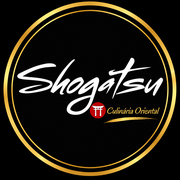
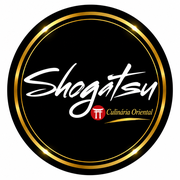
Add files via upload

diff --git a/public/painel.html b/public/painel.html
@@ -10,6 +10,7 @@
 <meta content="Painel Shogatsu" name="apple-mobile-web-app-title"/>
 <link href="manifest-painel.json" rel="manifest"/>
 <link href="apple-touch-icon.png" rel="apple-touch-icon"/>
+<link rel="icon" type="image/png" href="/favicon.png">
 <link href="favicon-32.png" rel="icon" sizes="32x32" type="image/png"/>
 <link href="favicon-16.png" rel="icon" sizes="16x16" type="image/png"/>
 <title>Shogatsu — Painel do Restaurante</title>
@@ -1911,7 +1912,7 @@ body{font-size:13px;letter-spacing:-.01em;}
 <div class="field"><label>Fecha</label><input id="sched-close" type="time" value="23:00"/></div>
 </div>
 <div class="field"><label>Avaliação</label><input id="cfg-reviewPrompt" placeholder="O que você achou do seu pedido?"/></div>
-<div class="field"><label style="display:flex;align-items:center;justify-content:space-between;"><span>Frases prontas</span><button class="btn secondary sm" onclick="addReviewPhraseField()" type="button">+ Frase</button></label><div id="review-phrases-list" style="display:flex;flex-direction:column;gap:6px;margin-top:8px;"></div></div>
+<div class="field v122-review-phrases-source" style="display:none"><label>Frases prontas</label><div id="review-phrases-list" style="display:flex;flex-direction:column;gap:6px;margin-top:8px;"></div></div>
 </div>
 <div class="settings-card">
 <div class="settings-card-title">🎨 Aparência do Cardápio</div>
@@ -2245,6 +2246,7 @@ body{font-size:13px;letter-spacing:-.01em;}
             Aparecem no site pra todo mundo ver, exceto as que você ocultar. Ocultar não apaga —
             você pode reexibir quando quiser.
           </div>
+<div class="v122-review-phrases-card"><div class="v122-review-phrases-head"><div><strong>💬 Frases prontas</strong><span>Use respostas rápidas ao moderar ou responder avaliações.</span></div><button class="btn secondary sm" type="button" onclick="addReviewPhraseField();renderV122ReviewPhrases();">+ Frase</button></div><div id="v122-review-phrases-list"></div></div>
 <div id="admin-reviews-list" style="display:flex;flex-direction:column;gap:10px;"></div>
 </div>
 </div>
@@ -2295,7 +2297,9 @@ body{font-size:13px;letter-spacing:-.01em;}
 <div class="field"><label>Preço *</label><input id="item-price" oninput="updateItemLivePreview()" placeholder="0,00" step="0.01" type="number"/></div>
 </div>
 <div class="field"><label>Descrição</label><textarea id="item-desc" oninput="updateItemLivePreview()" placeholder="Explique o que vem no prato, ingredientes e diferenciais..."></textarea></div>
-<div class="field-row"><div class="field"><label>Porção</label><input id="item-qty" placeholder="Ex.: 8 peças"/></div></div>
+<div class="field-row"><div class="field"><label>Porção / tamanho</label><input id="item-qty" list="item-qty-presets" placeholder="Ex.: 8 peças ou 500 ml"/></div></div>
+<datalist id="item-qty-presets"><option value="4 peças"></option><option value="6 peças"></option><option value="8 peças"></option><option value="10 peças"></option><option value="12 peças"></option><option value="16 peças"></option><option value="20 peças"></option><option value="250 ml"></option><option value="300 ml"></option><option value="350 ml"></option><option value="400 ml"></option><option value="500 ml"></option><option value="600 ml"></option><option value="700 ml"></option><option value="1 L"></option></datalist>
+<div class="v122-portion-chips" id="item-qty-chips"><button type="button" onclick="setItemQtyPreset('4 peças')">4</button><button type="button" onclick="setItemQtyPreset('6 peças')">6</button><button type="button" onclick="setItemQtyPreset('8 peças')">8</button><button type="button" onclick="setItemQtyPreset('10 peças')">10</button><button type="button" onclick="setItemQtyPreset('12 peças')">12</button><button type="button" onclick="setItemQtyPreset('250 ml')">250 ml</button><button type="button" onclick="setItemQtyPreset('350 ml')">350 ml</button><button type="button" onclick="setItemQtyPreset('500 ml')">500 ml</button><button type="button" onclick="setItemQtyPreset('1 L')">1 L</button></div>
 </div>
 <div class="item-editor-card item-editor-section v120-local-badge-card">
 <div class="item-editor-section-title"><span>🏷 Destaque no cardápio</span><span class="v120-local-badge-label">Rápido</span></div>
@@ -2307,7 +2311,13 @@ body{font-size:13px;letter-spacing:-.01em;}
 <button type="button" class="v120-badge-preset" data-badge="♥ Recomendado" onclick="setLocalBadgePreset('♥ Recomendado')">♥ Recomendado</button>
 <button type="button" class="v120-badge-preset is-off" data-badge="" onclick="setLocalBadgePreset('')">Sem selo</button>
 </div>
-<div class="field v120-badge-custom"><label>Personalizar selo <span>opcional</span></label><input id="item-badge" maxlength="28" placeholder="Ex.: 🍣 Chef recomenda" oninput="setLocalBadgeCustom(this.value)"/></div>
+<div class="field v120-badge-custom"><label>Texto do selo <span>opcional</span></label><input id="item-badge" maxlength="28" placeholder="Ex.: Chef recomenda" oninput="setLocalBadgeCustom(this.value)"/></div>
+<div class="v122-badge-tools">
+  <div class="field"><label>Ícone</label><select id="item-badge-icon"><option value="🔥">🔥 Fogo</option><option value="⭐">⭐ Estrela</option><option value="💎">💎 Diamante</option><option value="♥">♥ Coração</option><option value="🍣">🍣 Sushi</option><option value="✨">✨ Brilho</option><option value="🏆">🏆 Troféu</option><option value="">Sem ícone</option></select></div>
+  <div class="field"><label>Tamanho</label><select id="item-badge-size"><option value="11">Compacto</option><option value="13">Padrão</option><option value="15">Destaque</option><option value="17">Premium</option></select></div>
+  <div class="field"><label>Cor</label><select id="item-badge-color"><option value="#C62828">🔴 Shogatsu</option><option value="#9A7B2F">🟡 Dourado</option><option value="#222222">⚫ Grafite</option><option value="#2E7D32">🟢 Verde</option></select></div>
+  <div class="field"><label>Texto</label><select id="item-badge-text-color"><option value="#FFFFFF">⚪ Branco</option><option value="#171717">⚫ Preto</option><option value="#FFF3CD">🟡 Creme</option></select></div>
+</div>
 <div style="display:none"><input id="item-badgemode-global" name="item-badgemode" type="radio" value="global"/><input id="item-badgemode-manual" name="item-badgemode" type="radio" value="manual"/><input id="item-badgemode-off" name="item-badgemode" type="radio" value="off"/></div>
 </div>
 <div class="item-editor-card">
@@ -7342,6 +7352,10 @@ function openAddItem(){
   ['item-name','item-desc','item-qty','item-badge'].forEach(id=>document.getElementById(id).value='');
   document.getElementById('item-price').value='';
   document.getElementById('item-badgemode-global').checked=true;
+  if(document.getElementById('item-badge-icon'))document.getElementById('item-badge-icon').value='🔥';
+  if(document.getElementById('item-badge-size'))document.getElementById('item-badge-size').value='13';
+  if(document.getElementById('item-badge-color'))document.getElementById('item-badge-color').value='#C62828';
+  if(document.getElementById('item-badge-text-color'))document.getElementById('item-badge-text-color').value='#FFFFFF';
   resetItemPhotoPreview('', {x:50,y:50});
   editingVariants=[];
   renderVariantGroups();
@@ -7358,6 +7372,10 @@ function openEditItem(si,ii){
   document.getElementById('item-price').value=item.price;
   document.getElementById('item-qty').value=item.qty||'';
   document.getElementById('item-badge').value=item.badge||'';
+  if(document.getElementById('item-badge-icon'))document.getElementById('item-badge-icon').value=item.badgeIcon||'🔥';
+  if(document.getElementById('item-badge-size'))document.getElementById('item-badge-size').value=String(item.badgeSize||13);
+  if(document.getElementById('item-badge-color'))document.getElementById('item-badge-color').value=item.badgeColor||'#C62828';
+  if(document.getElementById('item-badge-text-color'))document.getElementById('item-badge-text-color').value=item.badgeTextColor||'#FFFFFF';
   document.getElementById('item-badgemode-'+(item.badgeMode||'global')).checked=true;
   resetItemPhotoPreview(item.image||'', item.imagePos||{x:50,y:50});
   editingVariants=JSON.parse(JSON.stringify(item.variants||[]));
@@ -7456,6 +7474,10 @@ async function saveItem(){
     price:parseFloat(document.getElementById('item-price').value)||0,
     qty:document.getElementById('item-qty').value.trim(),
     badge:document.getElementById('item-badge').value.trim(),
+    badgeIcon:document.getElementById('item-badge-icon')?.value||'🔥',
+    badgeSize:parseInt(document.getElementById('item-badge-size')?.value)||13,
+    badgeColor:document.getElementById('item-badge-color')?.value||'#C62828',
+    badgeTextColor:document.getElementById('item-badge-text-color')?.value||'#FFFFFF',
     badgeMode:(document.querySelector('input[name="item-badgemode"]:checked')||{}).value||'global',
     image:document.getElementById('item-image').value.trim(),
     imagePos:{x:posX,y:posY},
@@ -10423,5 +10445,44 @@ if(token){
 })();
 </script>
 
+
+<style id="shog-v122-final-mobile">
+/* v122 FINAL — UX mobile-first, impressão resiliente, badges locais e comunicação unificada. */
+.v122-badge-tools{display:grid;grid-template-columns:repeat(4,minmax(0,1fr));gap:8px;margin-top:8px}
+.v122-badge-tools .field label{font-size:9px}.v122-badge-tools select{font-size:12px;padding:8px}
+.v122-portion-chips{display:flex;gap:5px;flex-wrap:wrap;margin-top:6px}.v122-portion-chips button{border:1px solid var(--border2);background:var(--bg);color:var(--muted);border-radius:999px;padding:5px 9px;font-size:10px;cursor:pointer}.v122-portion-chips button:hover{border-color:var(--red);color:var(--red-lt)}
+.v122-review-phrases-card{border:1px solid var(--border);background:var(--card);border-radius:12px;padding:12px;margin:0 0 10px}.v122-review-phrases-head{display:flex;justify-content:space-between;gap:10px;align-items:center}.v122-review-phrases-head strong{display:block;font-size:13px}.v122-review-phrases-head span{display:block;font-size:10px;color:var(--muted);margin-top:3px}.v122-review-phrase-row{display:flex;gap:6px;margin-top:7px}.v122-review-phrase-row input{flex:1}.v122-review-phrase-row button{width:34px;border:1px solid var(--border);background:var(--bg);color:var(--red-lt);border-radius:7px}
+/* Impressão: compacto, sem excesso de explicações. Mantém todos os controles funcionais. */
+#page-impressao .panel-body{padding:12px!important}.v122-print-help{display:none}.v122-print-compact{display:grid;grid-template-columns:minmax(0,1.5fr) minmax(260px,1fr);gap:10px}.v122-print-status{font-size:10px!important;line-height:1.35!important;padding:7px 9px!important}
+#page-impressao .settings-card{padding:12px!important;border-radius:12px!important}.v122-hide-print-copy{display:none!important}
+/* Mensagens: uma única central, abas viram dois blocos sem navegação duplicada. */
+#page-mensagens>div:first-child{display:none!important}#page-mensagens #msg-tab-inbox,#page-mensagens #msg-tab-central{display:block!important}.v122-msg-title{margin:0 0 8px;font-size:13px;font-weight:800;color:var(--white)}#page-mensagens #msg-tab-inbox{margin-bottom:10px}
+/* Modal de item: mais limpo em mobile. */
+#item-modal>.modal{max-width:900px!important;width:min(900px,96vw)!important;border-radius:18px!important;margin:2vh auto!important;height:min(96vh,980px)!important}
+@media(max-width:760px){
+ .v122-badge-tools{grid-template-columns:1fr 1fr}.v122-review-phrases-head{align-items:flex-start}.v122-print-compact{grid-template-columns:1fr}.v122-portion-chips button{flex:1 0 auto}.modal-body{padding:12px!important}.item-editor-grid{grid-template-columns:1fr!important}.item-preview-card{position:static!important}.field input,.field select,.field textarea{min-height:44px;font-size:15px}.btn{min-height:42px}.settings-card-title{font-size:13px}.wa-admin-wrap{height:calc(100vh - 210px)!important;min-height:420px!important}.wa-footer textarea{font-size:16px!important}.wa-icon-btn,.wa-send-btn{width:40px!important;height:40px!important}
+ #page-impressao .settings-grid{grid-template-columns:1fr!important}.v122-hide-mobile-copy{display:none!important}
+}
+@media(max-width:420px){.v122-badge-tools{grid-template-columns:1fr}.v122-portion-chips button{font-size:9px;padding:5px 7px}.v122-review-phrase-row input{font-size:14px}}
+</style>
+<script id="shog-v122-final-js">
+(function(){
+  const $=id=>document.getElementById(id);
+  window.setItemQtyPreset=function(v){const el=$('item-qty');if(el){el.value=v;el.dispatchEvent(new Event('input',{bubbles:true}));el.focus();}};
+  function badgeDefaults(){return {icon:'🔥',size:'13',color:'#C62828',textColor:'#FFFFFF'};}
+  function syncBadgeControls(item){const d=badgeDefaults(), x=item||{}; if($('item-badge-icon'))$('item-badge-icon').value=x.badgeIcon||d.icon; if($('item-badge-size'))$('item-badge-size').value=String(x.badgeSize||d.size); if($('item-badge-color'))$('item-badge-color').value=x.badgeColor||d.color; if($('item-badge-text-color'))$('item-badge-text-color').value=x.badgeTextColor||d.textColor;}
+  window.syncV122BadgeControls=syncBadgeControls;
+  window.renderV122ReviewPhrases=function(){const src=$('review-phrases-list'),dst=$('v122-review-phrases-list');if(!src||!dst)return;const vals=[...src.querySelectorAll('input')].map(x=>x.value);dst.innerHTML=vals.length?vals.map((v,i)=>`<div class="v122-review-phrase-row"><input value="${String(v).replace(/&/g,'&amp;').replace(/</g,'&lt;').replace(/"/g,'&quot;')}" oninput="reviewPhrasesState[${i}]=this.value"><button type="button" onclick="reviewPhrasesState.splice(${i},1);renderReviewPhrasesList();renderV122ReviewPhrases();">🗑</button></div>`).join(''):'<div style="font-size:11px;color:var(--muted);padding:8px 0">Nenhuma frase. Adicione respostas rápidas para facilitar a rotina.</div>';};
+  const oldAdd=window.addReviewPhraseField; if(oldAdd){window.addReviewPhraseField=function(){oldAdd.apply(this,arguments);setTimeout(renderV122ReviewPhrases,0);};}
+  const oldRender=window.renderReviewPhrasesList; if(oldRender){window.renderReviewPhrasesList=function(){oldRender.apply(this,arguments);setTimeout(renderV122ReviewPhrases,0);};}
+  const oldOpenNew=window.openAddItem; if(oldOpenNew){window.openAddItem=function(){const r=oldOpenNew.apply(this,arguments);setTimeout(()=>syncBadgeControls({}),30);return r;};}
+  const oldOpenEdit=window.openEditItem; if(oldOpenEdit){window.openEditItem=function(si,ii){const r=oldOpenEdit.apply(this,arguments);setTimeout(()=>syncBadgeControls((window.menu&&menu[si]&&menu[si].items&&menu[si].items[ii])||{}),30);return r;};}
+  function compactPrinting(){const page=$('page-impressao');if(!page||page.dataset.v122==='1')return;page.dataset.v122='1';const cards=[...page.querySelectorAll('.settings-card')];cards.forEach(c=>{const title=c.querySelector('.settings-card-title')?.textContent||'';if(/Fonte de Impressão/.test(title)){c.style.padding='10px';} if(/Impressão Automática/.test(title)){c.querySelectorAll('div').forEach(d=>{const t=d.textContent||'';if(t.includes('Só marca isso no computador')||t.includes('Já colocou um nome escolhido'))d.style.display='none';});}});}
+  function unifyMessages(){const p=$('page-mensagens');if(!p||p.dataset.v122==='1')return;p.dataset.v122='1';const central=$('msg-tab-central'),inbox=$('msg-tab-inbox');if(central&&inbox){central.style.display='block';inbox.style.display='block';const h=document.createElement('div');h.className='v122-msg-title';h.textContent='💬 Central de Mensagens';p.insertBefore(h,p.children[1]||null);}}
+  function markPrintStatus(){const box=$('print-agent-status-box');if(box)box.classList.add('v122-print-status');}
+  document.addEventListener('DOMContentLoaded',()=>{setTimeout(()=>{compactPrinting();unifyMessages();markPrintStatus();renderV122ReviewPhrases();syncBadgeControls({});},150);});
+  const oldGo=window.goPage;if(oldGo){window.goPage=function(id){const r=oldGo.apply(this,arguments);if(id==='impressao')setTimeout(compactPrinting,100);if(id==='mensagens')setTimeout(unifyMessages,100);if(id==='avaliacoes')setTimeout(renderV122ReviewPhrases,100);return r;};}
+})();
+</script>
 </body>
 </html>

diff --git a/public/index.html b/public/index.html
@@ -9,6 +9,7 @@
 <meta name="apple-mobile-web-app-title" content="Shogatsu">
 <link rel="manifest" href="manifest.json">
 <link rel="apple-touch-icon" href="apple-touch-icon.png">
+<link rel="icon" type="image/png" href="/favicon.png">
 <link rel="icon" type="image/png" sizes="32x32" href="favicon-32.png">
 <link rel="icon" type="image/png" sizes="16x16" href="favicon-16.png">
 <title>Shogatsu · Peça Agora</title>
@@ -2820,15 +2821,18 @@ function itemPlaceholderHtml(icon){
 // v73: resolve o badge de um item — respeita item.badgeMode ('global' herda o Badge Global,
 // 'manual' usa o texto próprio do item, 'off' não mostra nenhum badge.
 function itemBadgeHtml(item){
-  const mode = item.badgeMode || 'global';
-  if (mode === 'off') return '';
-  if (mode === 'manual') return item.badge ? `<div class="item-badge">${item.badge}</div>` : '';
-  const gb = cfg.globalBadge;
-  if (gb && gb.enabled) {
-    const style = `background:${gb.bgColor};color:${gb.textColor};font-size:${gb.fontSize}px;font-weight:${gb.fontWeight};opacity:${(gb.opacity==null?100:gb.opacity)/100};border-radius:${gb.borderRadius}px;padding:${gb.padding}px ${Number(gb.padding)+4}px;${gb.borderEnabled?`border:1px solid ${gb.borderColor};`:''}${gb.shadow?'box-shadow:0 2px 6px rgba(0,0,0,.35);':''}`;
-    return `<div class="item-badge" style="${style}">${gb.icon ? gb.icon+' ' : ''}${gb.text}</div>`;
-  }
-  return item.badge ? `<div class="item-badge">${item.badge}</div>` : '';
+  const mode=item.badgeMode||'global';
+  if(mode==='off') return '';
+  const raw=String(item.badge||'').trim();
+  if(mode!=='manual' && !raw && !(item.badgeText)) return '';
+  let icon=String(item.badgeIcon||'');
+  let text=String(item.badgeText||raw||'').trim();
+  if(!item.badgeIcon && raw){ const mm=raw.match(/^((?:🔥|⭐|💎|♥|🍣|✨|🏆)\s*)(.*)$/); if(mm){icon=mm[1].trim();text=mm[2].trim();} }
+  if(!text) return '';
+  const size=Math.max(11,Math.min(18,Number(item.badgeSize)||13));
+  const bg=item.badgeColor||'#C62828';
+  const fg=item.badgeTextColor||'#FFFFFF';
+  return `<div class="item-badge" style="background:${bg};color:${fg};font-size:${size}px;font-weight:700;border-radius:999px;padding:${size<13?4:5}px ${size<13?9:11}px;box-shadow:0 2px 8px rgba(0,0,0,.22);border:1px solid rgba(255,255,255,.16);line-height:1;display:inline-flex;align-items:center;gap:4px;">${icon?icon+' ':''}${esc(text)}</div>`;
 }
 function renderMenu() {
   document.getElementById('hero-address').textContent = cfg.addr;
@@ -2959,7 +2963,7 @@ function renderMenu() {
             ${badgeAboveName ? badgeHtml : ''}
             <div class="item-name">${item.name}</div>
             ${badgeBelowName ? badgeHtml : ''}
-            <div class="item-desc${item.desc ? ' clamped' : ''}" id="desc-${key}">${item.desc}${item.qty ? ` <span style="color:var(--muted);font-size:10px">(${item.qty})</span>` : ''}</div>
+            <div class="item-desc${item.desc ? ' clamped' : ''}" id="desc-${key}">${item.desc}${item.qty ? ` <span class="item-portion-inline">· ${esc(item.qty)}</span>` : ''}</div>
             ${item.desc ? `<button type="button" class="item-desc-toggle" id="desc-toggle-${key}" onclick="toggleItemDesc('${key}', event)">⌄ Ver mais</button>` : ''}
             ${cartQty > 0 ? `<div class="mi-in-cart-tag">🛒 ${cartQty} no carrinho</div>` : ''}
             <div class="item-footer">
@@ -3528,6 +3532,9 @@ function setPlaceBtnState(state, customLabel) {
   label.textContent = customLabel || (state === 'loading' ? 'Enviando pedido...' : state === 'blocked' ? 'Indisponível no momento' : '🛒 Finalizar Pedido');
 }
 
+function showPendingOrderRetry(){let b=document.getElementById('shog-pending-order');if(!b){b=document.createElement('div');b.id='shog-pending-order';b.style='position:fixed;left:12px;right:12px;bottom:84px;z-index:9999;background:#171717;color:#fff;border:1px solid #C62828;border-radius:12px;padding:12px;box-shadow:0 8px 30px rgba(0,0,0,.35);font:13px sans-serif;';document.body.appendChild(b);}b.innerHTML='<b>⚠ Pedido aguardando conexão</b><div style="font-size:11px;margin-top:4px;opacity:.8">Sua tentativa foi guardada. Quando a internet voltar, toque em Tentar novamente.</div><div style="display:flex;gap:6px;margin-top:8px"><button type="button" style="flex:1;padding:9px;border:0;border-radius:8px;background:#C62828;color:#fff;font-weight:700" onclick="retryPendingOrder()">↻ Tentar novamente</button><button type="button" style="padding:9px 12px;border:1px solid #444;border-radius:8px;background:#222;color:#fff" onclick="this.closest(\"#shog-pending-order\").remove()">Fechar</button></div>';}
+async function retryPendingOrder(){try{const raw=localStorage.getItem('shogatsu_pending_order');if(!raw)return;const p=JSON.parse(raw);const r=await fetch('/api/orders',{method:'POST',headers:{'Content-Type':'application/json'},body:JSON.stringify({...p.payload,idempotencyKey:p.idempotencyKey})});const d=await r.json();if(!r.ok)throw new Error(d.error||'Não foi possível reenviar.');localStorage.removeItem('shogatsu_pending_order');document.getElementById('shog-pending-order')?.remove();window._placeOrderIdemKey=null;alert('✅ Pedido confirmado!');}catch(e){alert('Ainda sem conexão. Tente novamente em alguns segundos.');}}
+function initPendingOrderRetry(){try{const raw=localStorage.getItem('shogatsu_pending_order');if(raw&&Date.now()-Number(JSON.parse(raw).savedAt||0)<86400000)showPendingOrderRetry();else localStorage.removeItem('shogatsu_pending_order');}catch(e){}}
 async function placeOrder() {
   if (!Number(cfg.open)) { alert('O restaurante está fechado no momento. Tente novamente durante o horário de funcionamento: ' + cfg.hours); return; }
 
@@ -3596,10 +3603,10 @@ async function placeOrder() {
     // Pedido confirmado (novo ou recuperado via idempotência) — libera a chave pra próxima compra.
     window._placeOrderIdemKey = null;
   } catch (e) {
-    // Erro de rede: NÃO libera a chave. Se o cliente tentar de novo (ou o app tentar sozinho),
-    // a mesma chave é reenviada — se o pedido já tinha sido salvo no servidor antes da conexão
-    // cair, o backend reconhece a chave e devolve o pedido existente em vez de duplicar.
-    alert('Erro de conexão. Verifique sua internet e tente novamente. Se o pedido já tiver sido registrado, ele não será duplicado.');
+    // v122: guarda a tentativa localmente. O cliente pode recuperar o pedido sem perder o carrinho
+    // e sem criar duplicidade, porque a mesma idempotencyKey continua sendo reutilizada.
+    try{ localStorage.setItem('shogatsu_pending_order', JSON.stringify({savedAt:Date.now(),idempotencyKey,payload:{mode,name,phone,address,hood,items,obs,payMethod,troco,subtotal,fee,total,couponCode:appliedCoupon?appliedCoupon.code:'',redeemPoints:pointsDiscountValue().points,scheduledFor}})); }catch(err){}
+    showPendingOrderRetry();
     setPlaceBtnState('idle');
     return;
   }
@@ -4340,6 +4347,7 @@ if (typeof ResizeObserver !== 'undefined') {
 loadCustomerSession();
 loadConfig();
 connectPublicSSE();
+initPendingOrderRetry();
 attachCheckoutDraftListeners(); // v52: liga a gravação automática do rascunho do formulário de entrega
 loadCheckoutDraft(); // v52: já preenche os campos com o último rascunho salvo, mesmo antes de abrir o checkout
 loadReviews();
@@ -4558,5 +4566,8 @@ updatePushButtonState();
 <link rel="stylesheet" href="/install-prompt.css">
 <script src="/install-prompt.js" defer></script>
 <script src="/version-check.js"></script>
+<style id="shog-v122-client-badge">
+.item-badge-price{display:inline-flex!important;align-items:center!important;justify-content:flex-end!important;max-width:100%;white-space:nowrap}.item-portion-inline{color:var(--muted);font-size:10px;white-space:nowrap}.item-footer{align-items:flex-end!important;gap:8px!important}.item-footer .item-badge-price{margin:0 0 5px auto!important}.item-badge{letter-spacing:.15px!important;text-transform:none!important}@media(max-width:520px){.item-footer .item-badge-price{font-size:inherit!important}.item-portion-inline{font-size:9.5px}}
+</style>
 </body>
 </html>

diff --git a/public/sw.js b/public/sw.js
@@ -14,7 +14,7 @@
 // tela inicial (start_url) certos pra ela — pra abrir direto na página certa quando
 // instalada, em vez de sempre cair em "/". Cache sobe de v5 pra v6 pra já entregar esses
 // arquivos novos pra quem já tinha o service worker instalado antes.
-const CACHE = 'shogatsu-v7';
+const CACHE = 'shogatsu-v8';
 const ASSETS = [
   '/manifest.json',
   '/manifest-painel.json',
@@ -26,6 +26,8 @@ const ASSETS = [
   '/manifest-pedir-agora.json',
   '/icon-192.png',
   '/icon-512.png',
+  '/favicon.png',
+  '/apple-touch-icon.png',
   'https://fonts.googleapis.com/css2?family=Cormorant+Garamond:ital,wght@0,400;0,600;1,400&family=Jost:wght@300;400;500;600&display=swap'
 ];
 // BUG CORRIGIDO (v43 — "notificação push não chega"): o `cache.addAll(ASSETS)` falha por

diff --git a/public/divulgacao-rodizio.html b/public/divulgacao-rodizio.html
@@ -12,6 +12,7 @@
 <meta name="apple-mobile-web-app-title" content="Rodízio Popular">
 <link rel="manifest" href="manifest-divulgacao-rodizio.json">
 <link rel="apple-touch-icon" href="apple-touch-icon.png">
+<link rel="icon" type="image/png" href="/favicon.png">
 <link rel="icon" type="image/png" sizes="32x32" href="favicon-32.png">
 <link rel="icon" type="image/png" sizes="16x16" href="favicon-16.png">
 <link rel="preconnect" href="https://fonts.googleapis.com">

diff --git a/public/avaliar-rodizio.html b/public/avaliar-rodizio.html
@@ -9,6 +9,7 @@
 <meta name="apple-mobile-web-app-title" content="Avaliar Shogatsu">
 <link rel="manifest" href="manifest-avaliar-rodizio.json">
 <link rel="apple-touch-icon" href="apple-touch-icon.png">
+<link rel="icon" type="image/png" href="/favicon.png">
 <link rel="icon" type="image/png" sizes="32x32" href="favicon-32.png">
 <link rel="icon" type="image/png" sizes="16x16" href="favicon-16.png">
 <title>Avalie o Rodízio — Shogatsu</title>

diff --git a/public/cardapio-rodizio-popular.html b/public/cardapio-rodizio-popular.html
@@ -9,6 +9,7 @@
 <meta name="apple-mobile-web-app-title" content="Rodízio Popular">
 <link rel="manifest" href="manifest-rodizio-popular.json">
 <link rel="apple-touch-icon" href="apple-touch-icon.png">
+<link rel="icon" type="image/png" href="/favicon.png">
 <link rel="icon" type="image/png" sizes="32x32" href="favicon-32.png">
 <link rel="icon" type="image/png" sizes="16x16" href="favicon-16.png">
 <title>Rodízio Popular — Shogatsu</title>

diff --git a/public/entregador.html b/public/entregador.html
@@ -9,6 +9,7 @@
 <meta name="apple-mobile-web-app-title" content="Rastreio Shogatsu">
 <link rel="manifest" href="manifest-entregador.json">
 <link rel="apple-touch-icon" href="apple-touch-icon.png">
+<link rel="icon" type="image/png" href="/favicon.png">
 <link rel="icon" type="image/png" sizes="32x32" href="favicon-32.png">
 <link rel="icon" type="image/png" sizes="16x16" href="favicon-16.png">
 <title>Rastreio da Entrega</title>

diff --git a/public/cardapio-rodizio.html b/public/cardapio-rodizio.html
@@ -9,6 +9,7 @@
 <meta name="apple-mobile-web-app-title" content="Rodízio Shogatsu">
 <link rel="manifest" href="manifest-rodizio.json">
 <link rel="apple-touch-icon" href="apple-touch-icon.png">
+<link rel="icon" type="image/png" href="/favicon.png">
 <link rel="icon" type="image/png" sizes="32x32" href="favicon-32.png">
 <link rel="icon" type="image/png" sizes="16x16" href="favicon-16.png">
 <title>Cardápio do Rodízio</title>

diff --git a/public/pedir-agora.html b/public/pedir-agora.html
@@ -9,6 +9,7 @@
 <meta name="apple-mobile-web-app-title" content="Shogatsu">
 <link rel="manifest" href="manifest-pedir-agora.json">
 <link rel="apple-touch-icon" href="apple-touch-icon.png">
+<link rel="icon" type="image/png" href="/favicon.png">
 <link rel="icon" type="image/png" sizes="32x32" href="favicon-32.png">
 <link rel="icon" type="image/png" sizes="16x16" href="favicon-16.png">
 <title>Shogatsu — Peça Agora</title>

diff --git a/public/nota-fiscal.html b/public/nota-fiscal.html
@@ -1,6 +1,7 @@
 <!DOCTYPE html>
 <html lang="pt-BR">
 <head>
+<link rel="icon" type="image/png" href="/favicon.png">
 <meta charset="UTF-8">
 <meta name="viewport" content="width=device-width, initial-scale=1.0">
 <title>Shogatsu — Ler Nota Fiscal</title>
